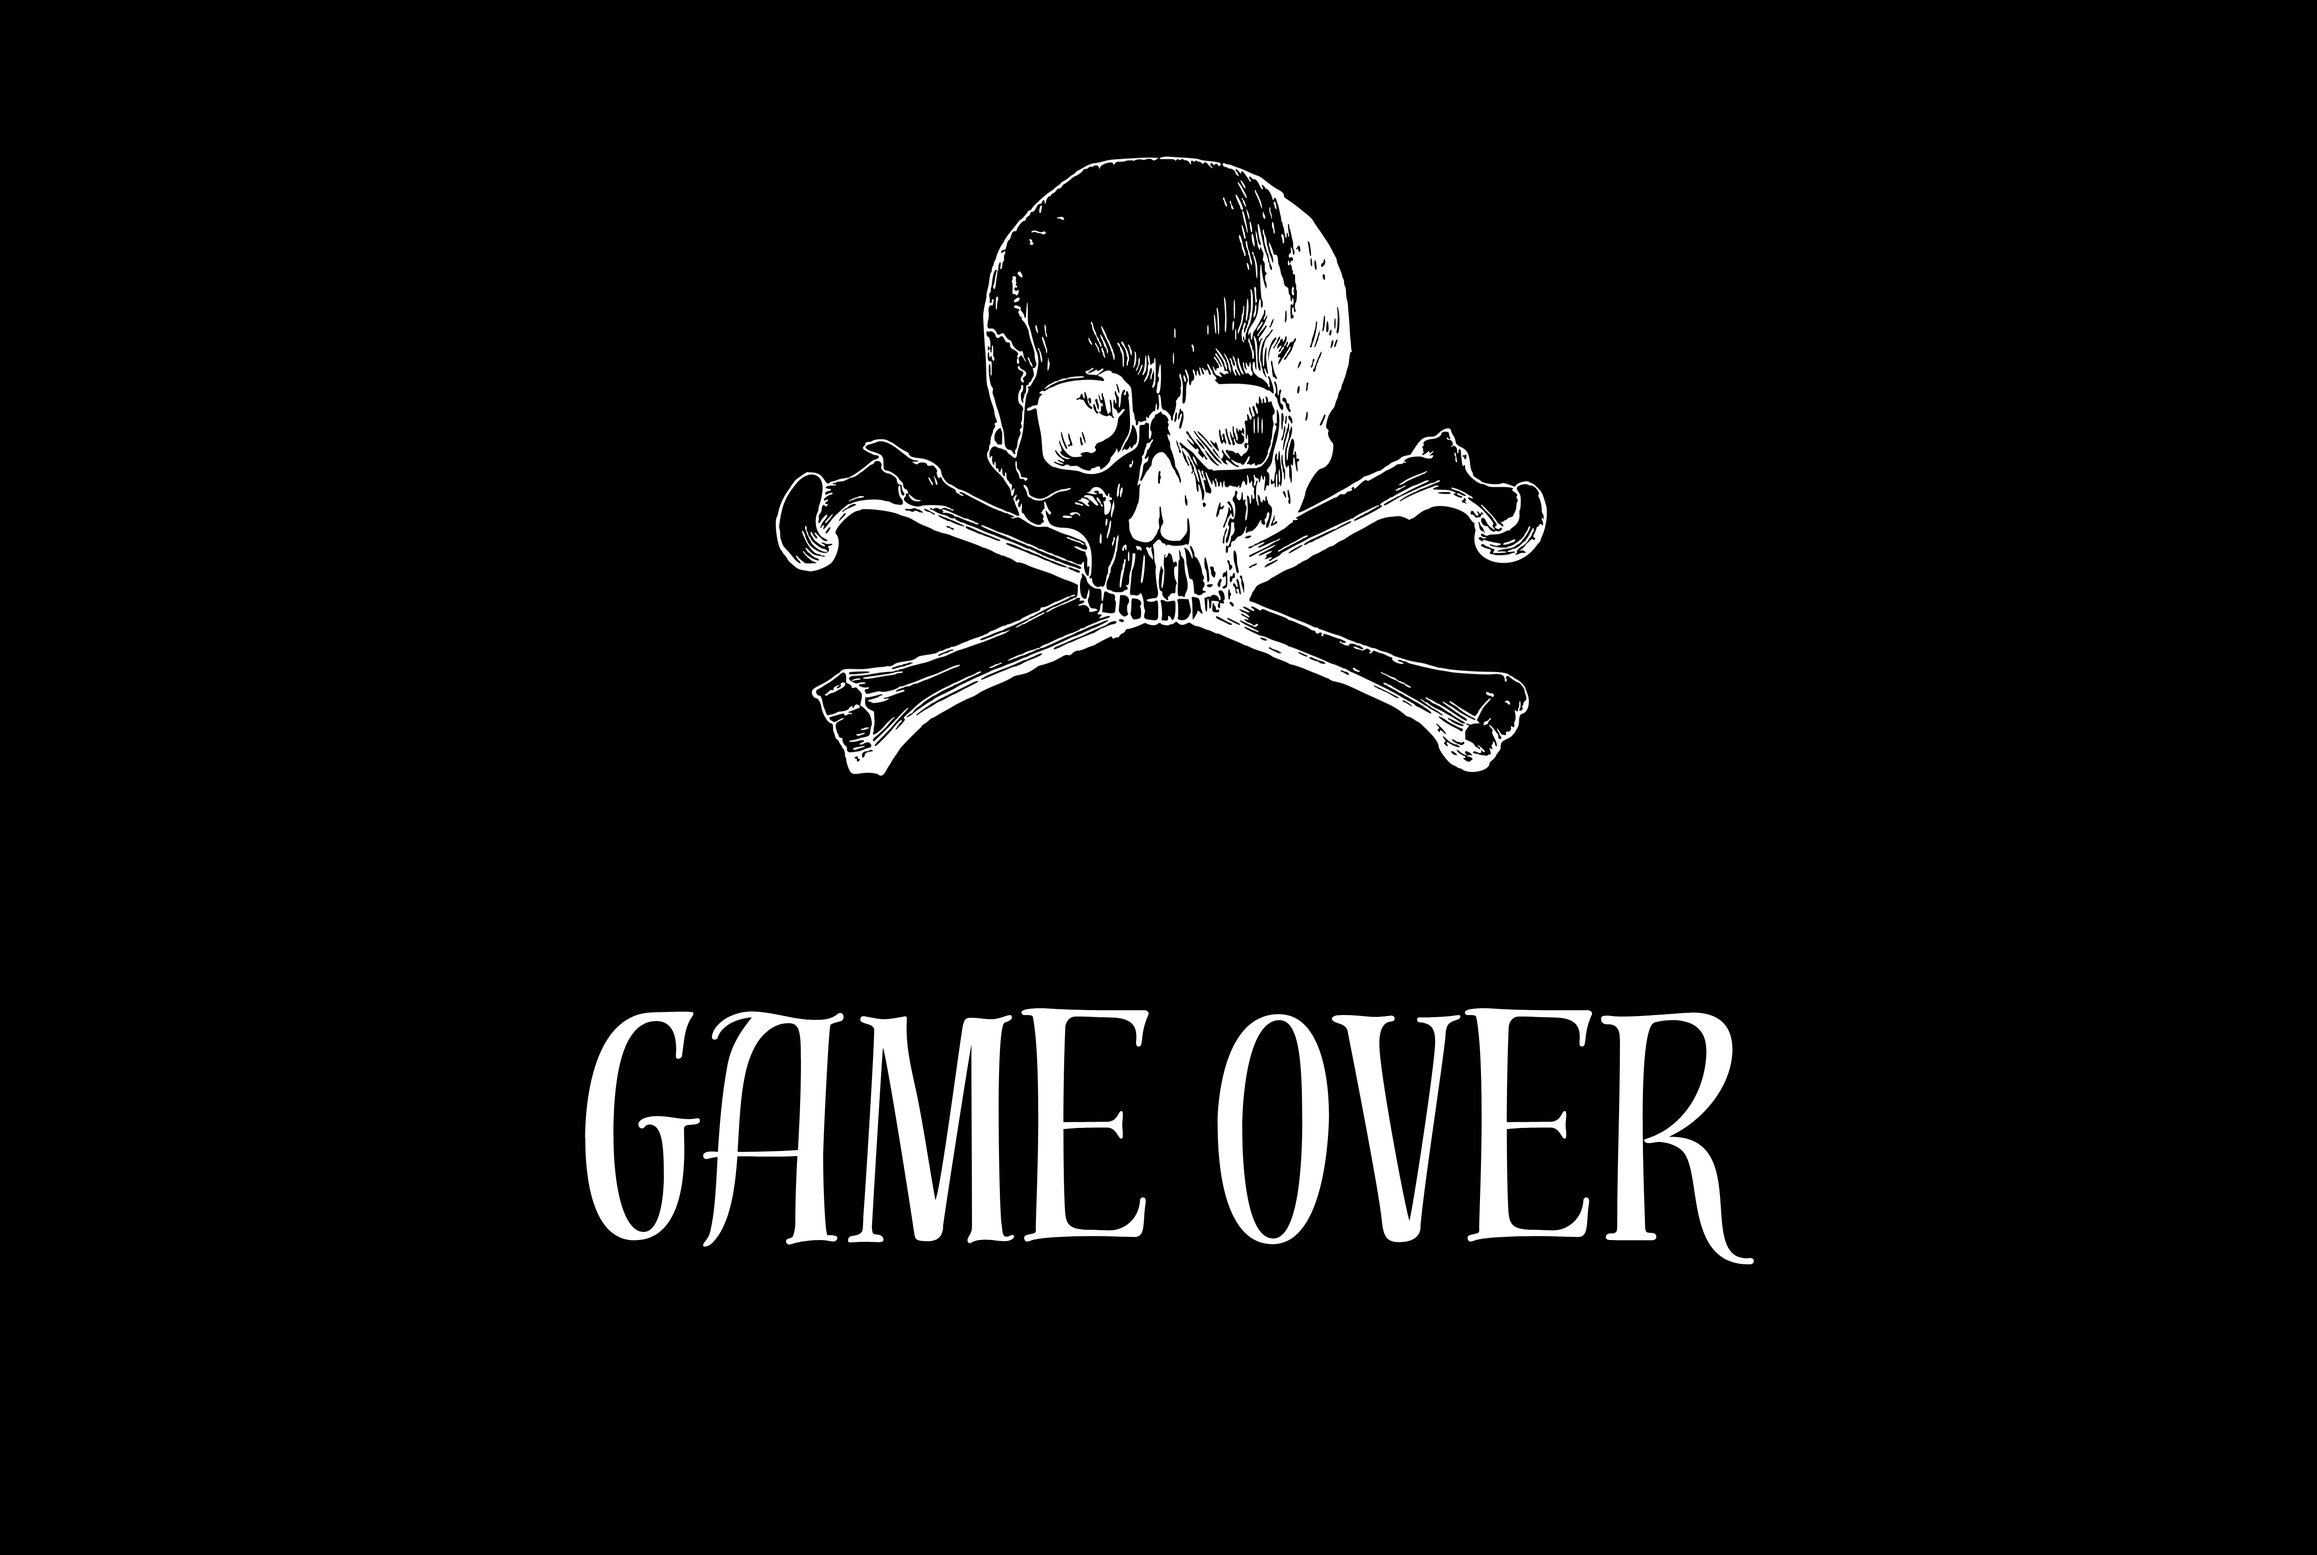
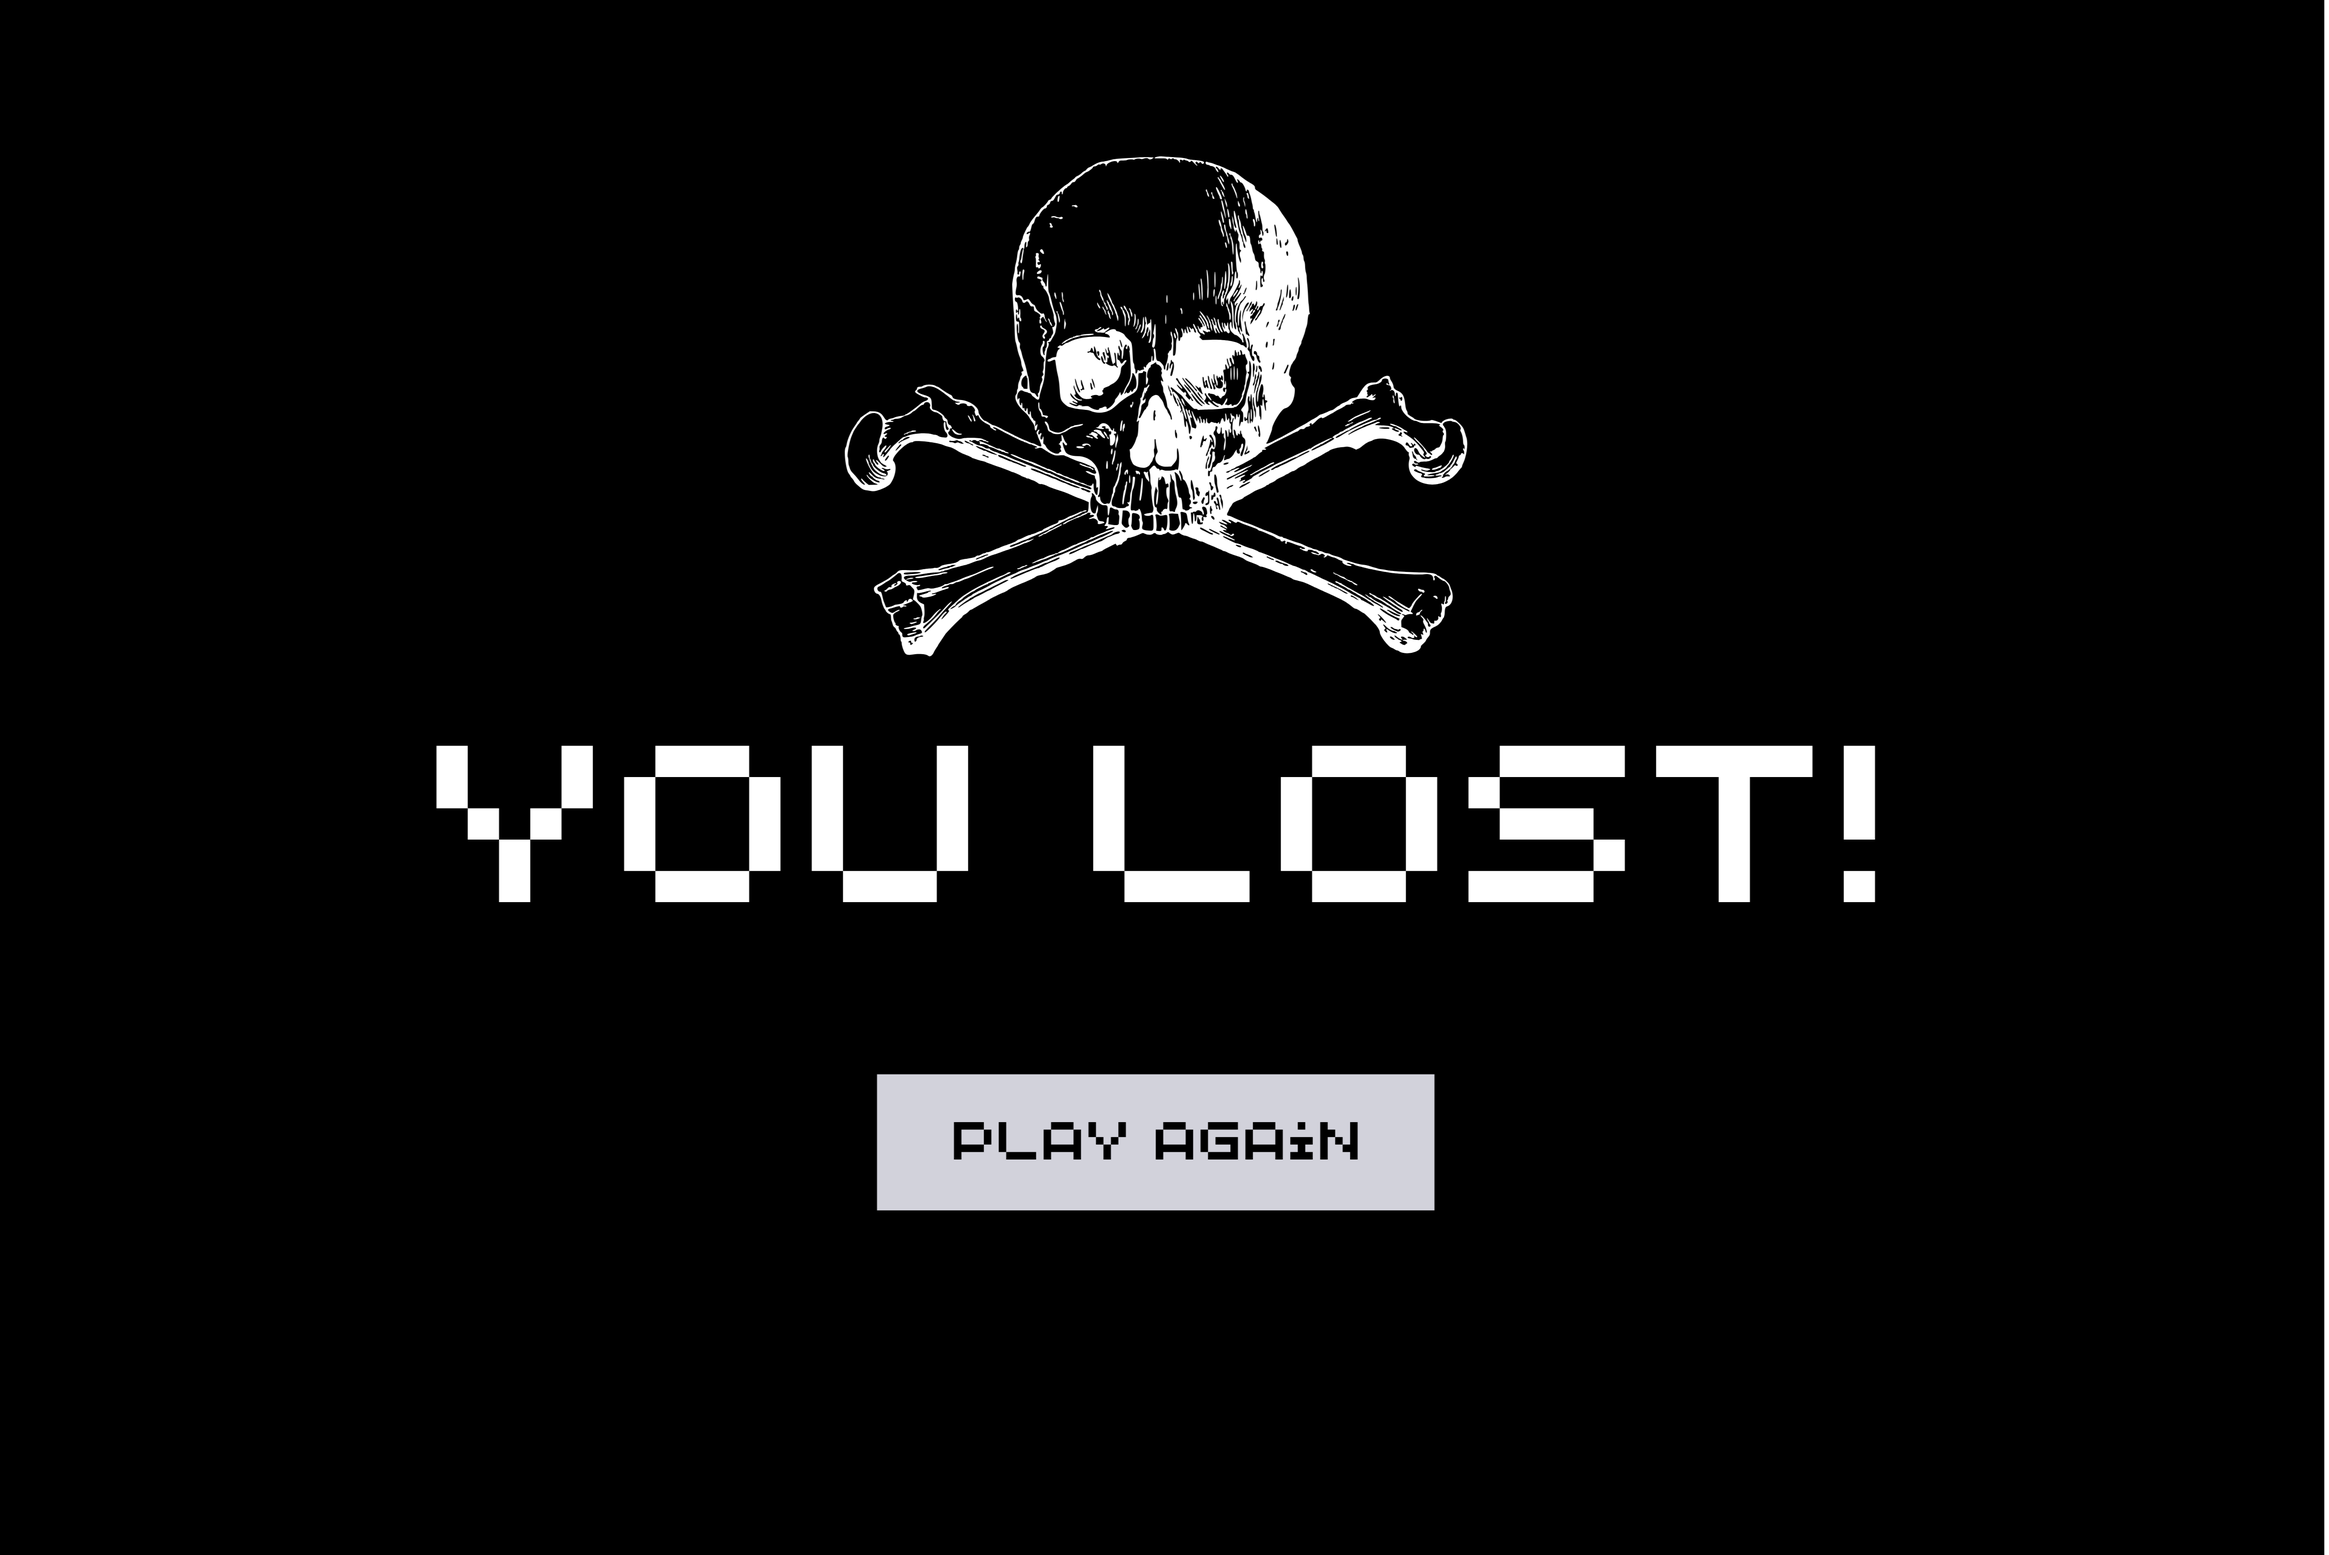
added more 'fake' rooms to the maze and restart

Changed region(s): [[0.1864, 0.0938, 0.8079, 0.5938], [0.2486, 0.625, 0.7458, 0.8125], [0.9944, 0.0, 1.0, 1.0]]

diff --git a/Main.py b/Main.py
@@ -8,7 +8,6 @@ import image
 import game_3
 import maze
 import time
-#import timer
 import datetime
 
 #common functions_______________________________________________________________
@@ -123,14 +122,7 @@ def corridor1_onMousePress(app,mouseX,mouseY):
         setActiveScreen("room1")   
 
 def corridor1_onStep(app):
-    app.timePassed+=1
-    if app.timePassed%30==0:
-        if app.totalSeconds==0:
-            setActiveScreen("gameOver")
-        else:
-            if app.totalSeconds<(300):
-                app.fiveMinute=True
-            app.totalSeconds-=1
+    checkTime(app)
 #_______________________________________________
 def room1_onAppStart(app):
     Room1.clues(app)
@@ -158,14 +150,7 @@ def room1_onKeyPress(app,key):
     Room1.onKeyPress(app,key)
 
 def room1_onStep(app):
-    app.timePassed+=1
-    if app.timePassed%30==0:
-        if app.totalSeconds==0:
-            setActiveScreen("mainOver")
-        else:
-            if app.totalSeconds<(300):
-                app.fiveMinute=True
-            app.totalSeconds-=1
+    checkTime(app)
 #_______________________________________________________________________________
 
 def room2_intro_redrawAll(app):
@@ -184,14 +169,7 @@ def room2_intro_onMousePress(app,mouseX,mouseY):
             setActiveScreen("room2")
 
 def room2_intro_onStep(app):
-    app.timePassed+=1
-    if app.timePassed%30==0:
-        if app.totalSeconds==0:
-            setActiveScreen("mainOver")
-        else:
-            if app.totalSeconds<(300):
-                app.fiveMinute=True
-            app.totalSeconds-=1
+    checkTime(app)
 
 #_______________________________________________________________________________
 
@@ -220,14 +198,7 @@ def room2_onKeyPress(app,key):
     Room2.onKeyPress(app,key)
 
 def room2_onStep(app):
-    app.timePassed+=1
-    if app.timePassed%30==0:
-        if app.totalSeconds==0:
-            setActiveScreen("mainOver")
-        else:
-            if app.totalSeconds<(300):
-                app.fiveMinute=True
-            app.totalSeconds-=1
+    checkTime(app)
 
 #_______________________________________________________________________________
 
@@ -246,14 +217,7 @@ def room3_intro_onMousePress(app,mouseX,mouseY):
             setActiveScreen("room3")
 
 def room3_intro_onStep(app):
-    app.timePassed+=1
-    if app.timePassed%30==0:
-        if app.totalSeconds==0:
-            setActiveScreen("mainOver")
-        else:
-            if app.totalSeconds<(300):
-                app.fiveMinute=True
-            app.totalSeconds-=1
+    checkTime(app)
 #_______________________________________________________________________________
 
 def room3_onAppStart(app):
@@ -285,14 +249,7 @@ def room3_onKeyPress(app,key):
 def room3_onStep(app):
     if not app.gameOver2:
         game_3.Points.onStep(app)
-    app.timePassed+=1
-    if app.timePassed%30==0:
-        if app.totalSeconds==0:
-            setActiveScreen("mainOver")
-        else:
-            if app.totalSeconds<(300):
-                app.fiveMinute=True
-            app.totalSeconds-=1
+    checkTime(app)
 
 
 #_______________________________________________________________________________
@@ -315,23 +272,69 @@ def maze_onKeyPress(app,key):
     if room!=None:
         setActiveScreen(room)  
 def maze_onStep(app):
+    checkTime(app)
+    
+#______________________________________________
+def checkTime(app):
     app.timePassed+=1
     if app.timePassed%30==0:
         if app.totalSeconds==0:
-            setActiveScreen("mainOver")
+            setActiveScreen("gameLost")
         else:
             if app.totalSeconds<300:
                 app.fiveMinute=True
             app.totalSeconds-=1
+
 #_______________________________________________
 
 def over_redrawAll(app):
     drawImage(app.over,0,0,width=app.width,height=app.height)
+
+    
+def over_onMousePress(app,mouseX,mouseY):
+    if app.width//2-155<=mouseX<=app.width//2+155 and app.height//2+140<=mouseY<=app.height//2+210:
+        restart(app)
+        setActiveScreen("welcome")
     
 #________________________________________________
 
-def mainOver_redrawAll(app):
+def gameLost_redrawAll(app):
     drawImage(app.gameOverImage,0,0,width=app.width,height=app.height)
+    
+
+def gameLost_onMousePress(app,mouseX,mouseY):
+    if app.width//2-155<=mouseX<=app.width//2+155 and app.height//2+140<=mouseY<=app.height//2+210:
+        restart(app)
+        setActiveScreen("welcome")
+#___________________________________________________
+
+def scare_redrawAll(app):
+    drawImage(app.jumpscare,0,0,width=app.width,height=app.height)
+
+def scare_onStep(app):
+    checkTime(app)
+    if app.timePassed%90==0:
+        app.maze[app.playerX][app.playerY]='c'
+        setActiveScreen("maze")
+    
+
+def restart(app):
+    maze.features(app)
+    game_3.Points.features(app)
+    image.loadImages(app)
+    app.clues_tofind=[app.candles,app.skull,app.clown]
+    app.sidePanel=False
+    app.width=1300
+    app.height=750
+    app.clues=[]
+    app.roomsVisited=[]
+    app.gameOver2=False
+    app.totalSeconds=900
+    app.timePassed=0
+    app.fiveMinute=False
+    doors.features(app)
+    Room1.clues(app)
+    Room2.clues(app)
 
 def main():
     runAppWithScreens(initialScreen='welcome')

diff --git a/maze.py b/maze.py
@@ -12,7 +12,8 @@ def features(app):
     app.mazeWidth=11
     app.maze=[]
     app.rooms=["1","2","3"]
-    app.names={"1":"corridor1","2":"room2_intro","3":"room3_intro"}
+    app.names={"1":"corridor1","2":"room2_intro","3":"room3_intro","f":"scare"}
+
     
     process(app)
     '''
@@ -24,7 +25,16 @@ def features(app):
 
     solveMaze(app) #solving the maze using backtracking
     rooms(app) #placing the rooms randomly in the maze
-    
+    fake_rooms(app)
+
+def fake_rooms(app):
+    n=3
+    while(n>0):
+        dx=random.randint(0,app.mazeWidth-1)
+        dy=random.randint(0,app.mazeHeight-1)
+        if app.maze[dx][dy]=='c' and dx!=app.playerX and dy!=app.playerY:
+            app.maze[dx][dy]='f'
+            n=n-1
 
 def rooms(app):
     if app.rooms==[]:
@@ -52,7 +62,7 @@ def printMaze(app):
             else:
                 if character=='p':
                     drawImage(app.key,Left,Top,width=50,height=50)
-                if character in "123":
+                if character in "123f":
                     drawImage(app.door,Left,Top,width=50,height=50)
                 if character=='w':
                     drawRect(Left,Top,50,50,fill='red',border='maroon')
@@ -265,7 +275,7 @@ def change(app,dx,dy):
     if app.maze[app.playerX+dx][app.playerY+dy]=='c' or app.maze[app.playerX+dx][app.playerY+dy]=='v':
         app.playerY+=dy
         app.playerX+=dx
-    elif app.maze[app.playerX+dx][app.playerY+dy] in "123":
+    elif app.maze[app.playerX+dx][app.playerY+dy] in "123f":
         character=app.maze[app.playerX+dx][app.playerY+dy]
         app.playerY+=dy
         app.playerX+=dx

diff --git a/image.py b/image.py
@@ -96,9 +96,11 @@ def loadImages(app):
     app.gameOverImage=openImage("images/gameOver.png")
     app.gameOverImage=CMUImage(app.gameOver)
 
-    app.timer=openImage("images/timer.jpg")
+    app.timer=openImage("images/timer.png")
     app.timer=CMUImage(app.timer)
     
+    app.jumpscare=openImage("images/jumpscare.gif")
+    app.jumpscare=CMUImage(app.jumpscare)
     #___________________________________________________________________________
     '''Images used:
     Background_1: https://www.ngpf.org/blog/activities/escape-from-the-haunted-mansion-a-new-halloween-activity/
